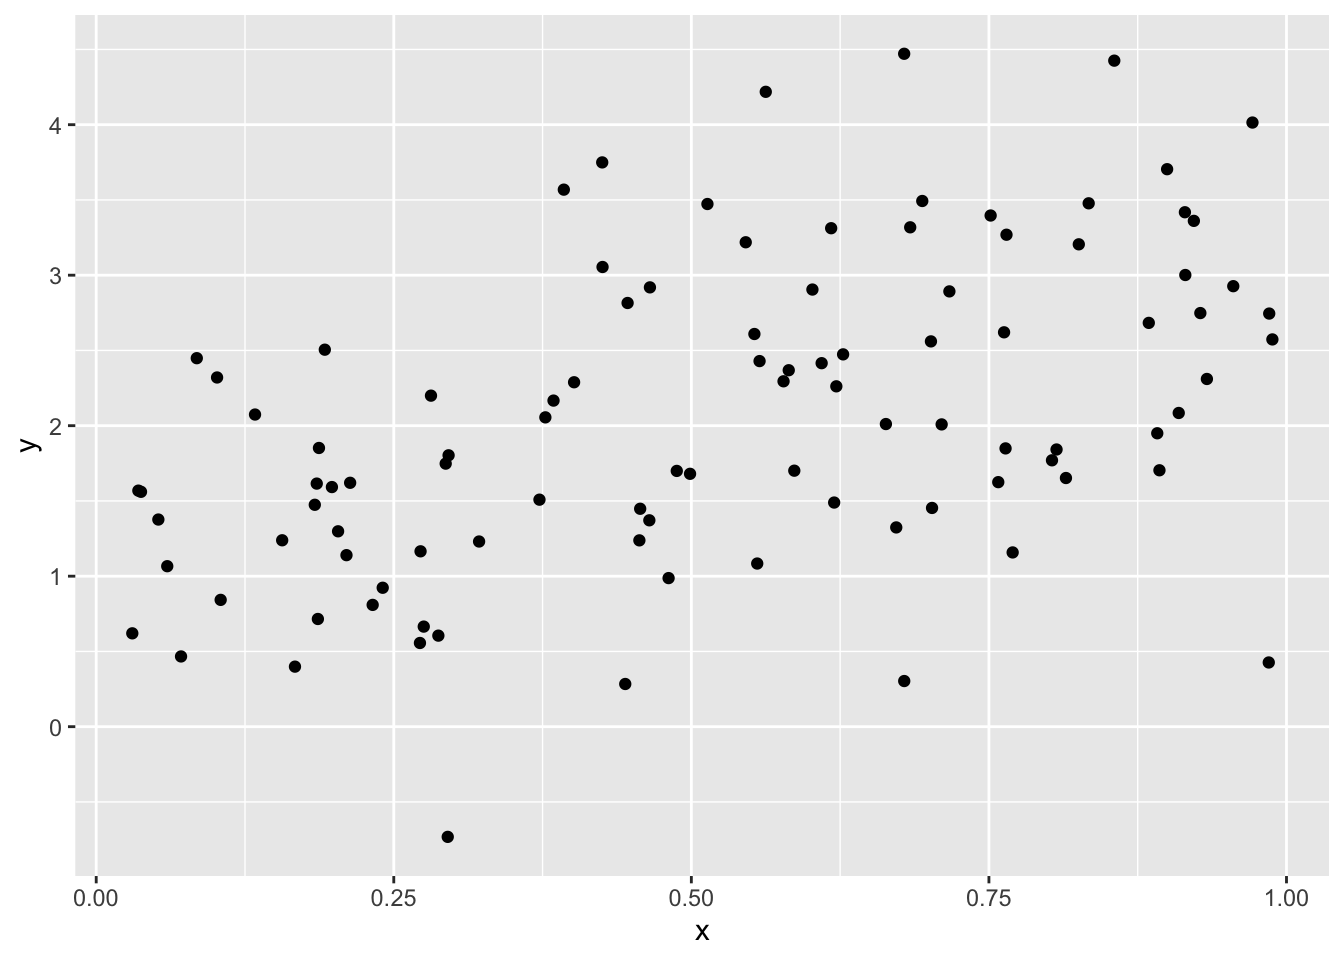
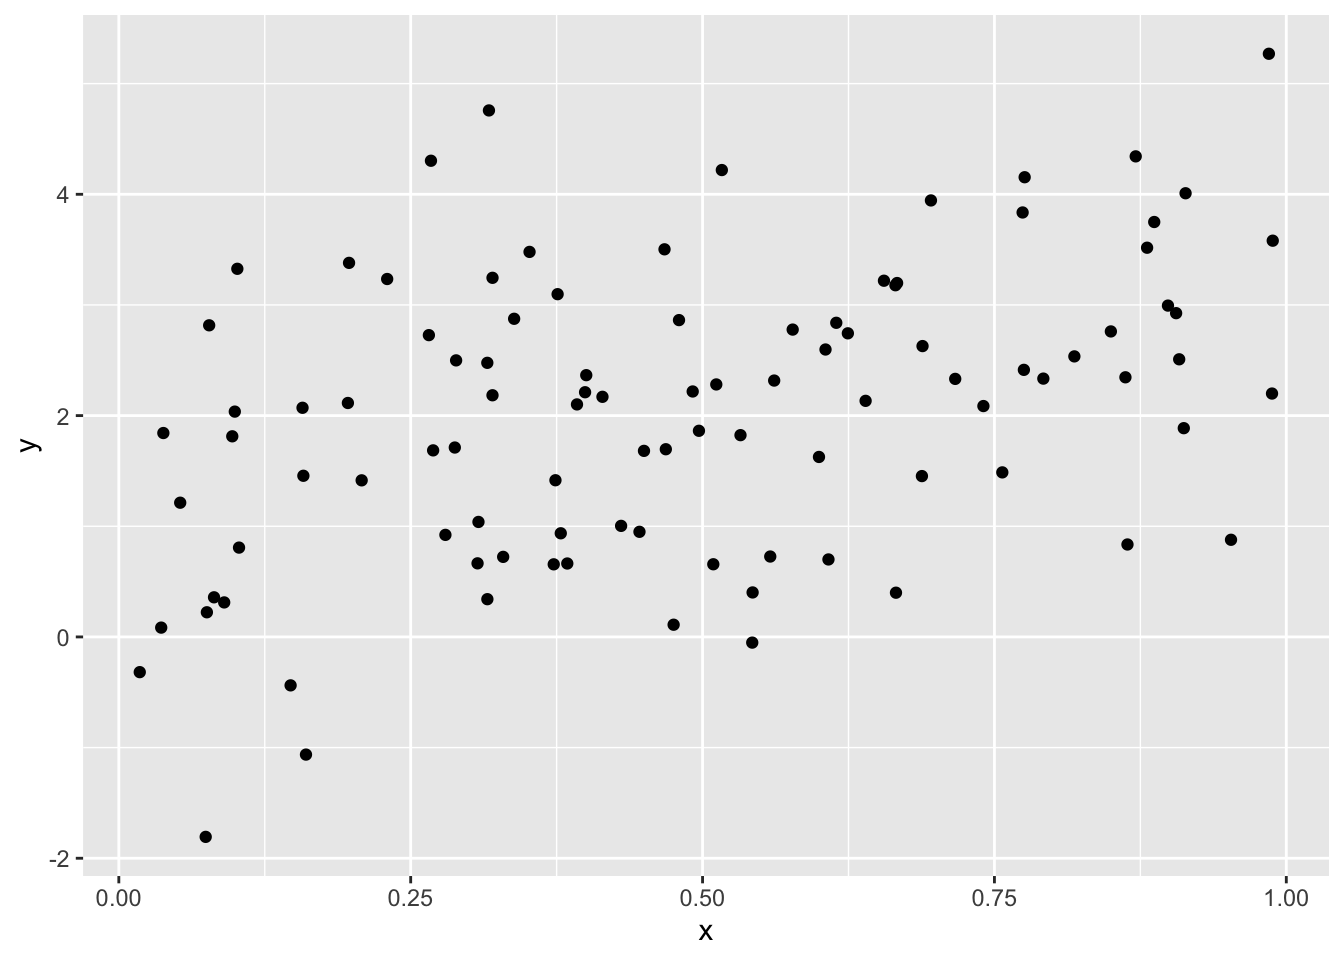
adding project page

diff --git a/projects.html b/projects.html
@@ -11,7 +11,7 @@
 
 
 
-<title>My awesome website</title>
+<title>Projects</title>
 
 <script src="site_libs/header-attrs-2.25/header-attrs.js"></script>
 <script src="site_libs/jquery-3.6.0/jquery-3.6.0.min.js"></script>
@@ -350,31 +350,13 @@ div.tocify {
 
 
 
-<h1 class="title toc-ignore">My awesome website</h1>
+<h1 class="title toc-ignore">Projects</h1>
 
 </div>
 
 
-<div id="this-is-jeffs-awesome-website" class="section level1">
-<h1>This is Jeff’s awesome website</h1>
-<p>Here’s a gif of elmo</p>
-<p><img
-src="https://media.giphy.com/media/drXGoW1iudhKw/giphy.gif" /></p>
-<p>You can add text</p>
-<ul>
-<li>and lists</li>
-<li>with extra bullets</li>
-</ul>
-<p>You can <em>FORMAT</em> and <strong>bold</strong>? Here’s a link to
-the <a href="about.html">about</a> page</p>
-</div>
-<div id="link-to-other-website" class="section level1">
-<h1>Link to other website</h1>
-<p>This is a <a href="http://www.google.com/">link</a> to a good data
-science tool.</p>
-<p>Here is a link to <a
-href="https://p8105.com/index.html">p8105</a>.</p>
-<p>Here is a link to the <a href="about.html">about</a> page.</p>
+<div id="here-is-a-nice-project" class="section level1">
+<h1>Here is a nice project:</h1>
 <p>You can also still use R!</p>
 <pre class="r"><code>library(tidyverse)</code></pre>
 <pre><code>## ── Attaching core tidyverse packages ──────────────────────── tidyverse 2.0.0 ──
@@ -396,15 +378,7 @@ href="https://p8105.com/index.html">p8105</a>.</p>
 plot_df |&gt;
   ggplot(aes(x=x, y=y))+
   geom_point()</code></pre>
-<p><img src="index_files/figure-html/unnamed-chunk-1-1.png" width="672" /></p>
-</div>
-<div id="new-section-include-picture" class="section level1">
-<h1>New section: include picture</h1>
-<p>There is an image of ISFJ. <img src="images/isfj.png" /></p>
-</div>
-<div id="other-stuff" class="section level1">
-<h1>Other stuff</h1>
-<p><a href="plotly.html">plotly</a> codes</p>
+<p><img src="projects_files/figure-html/unnamed-chunk-1-1.png" width="672" /></p>
 </div>
 
 
